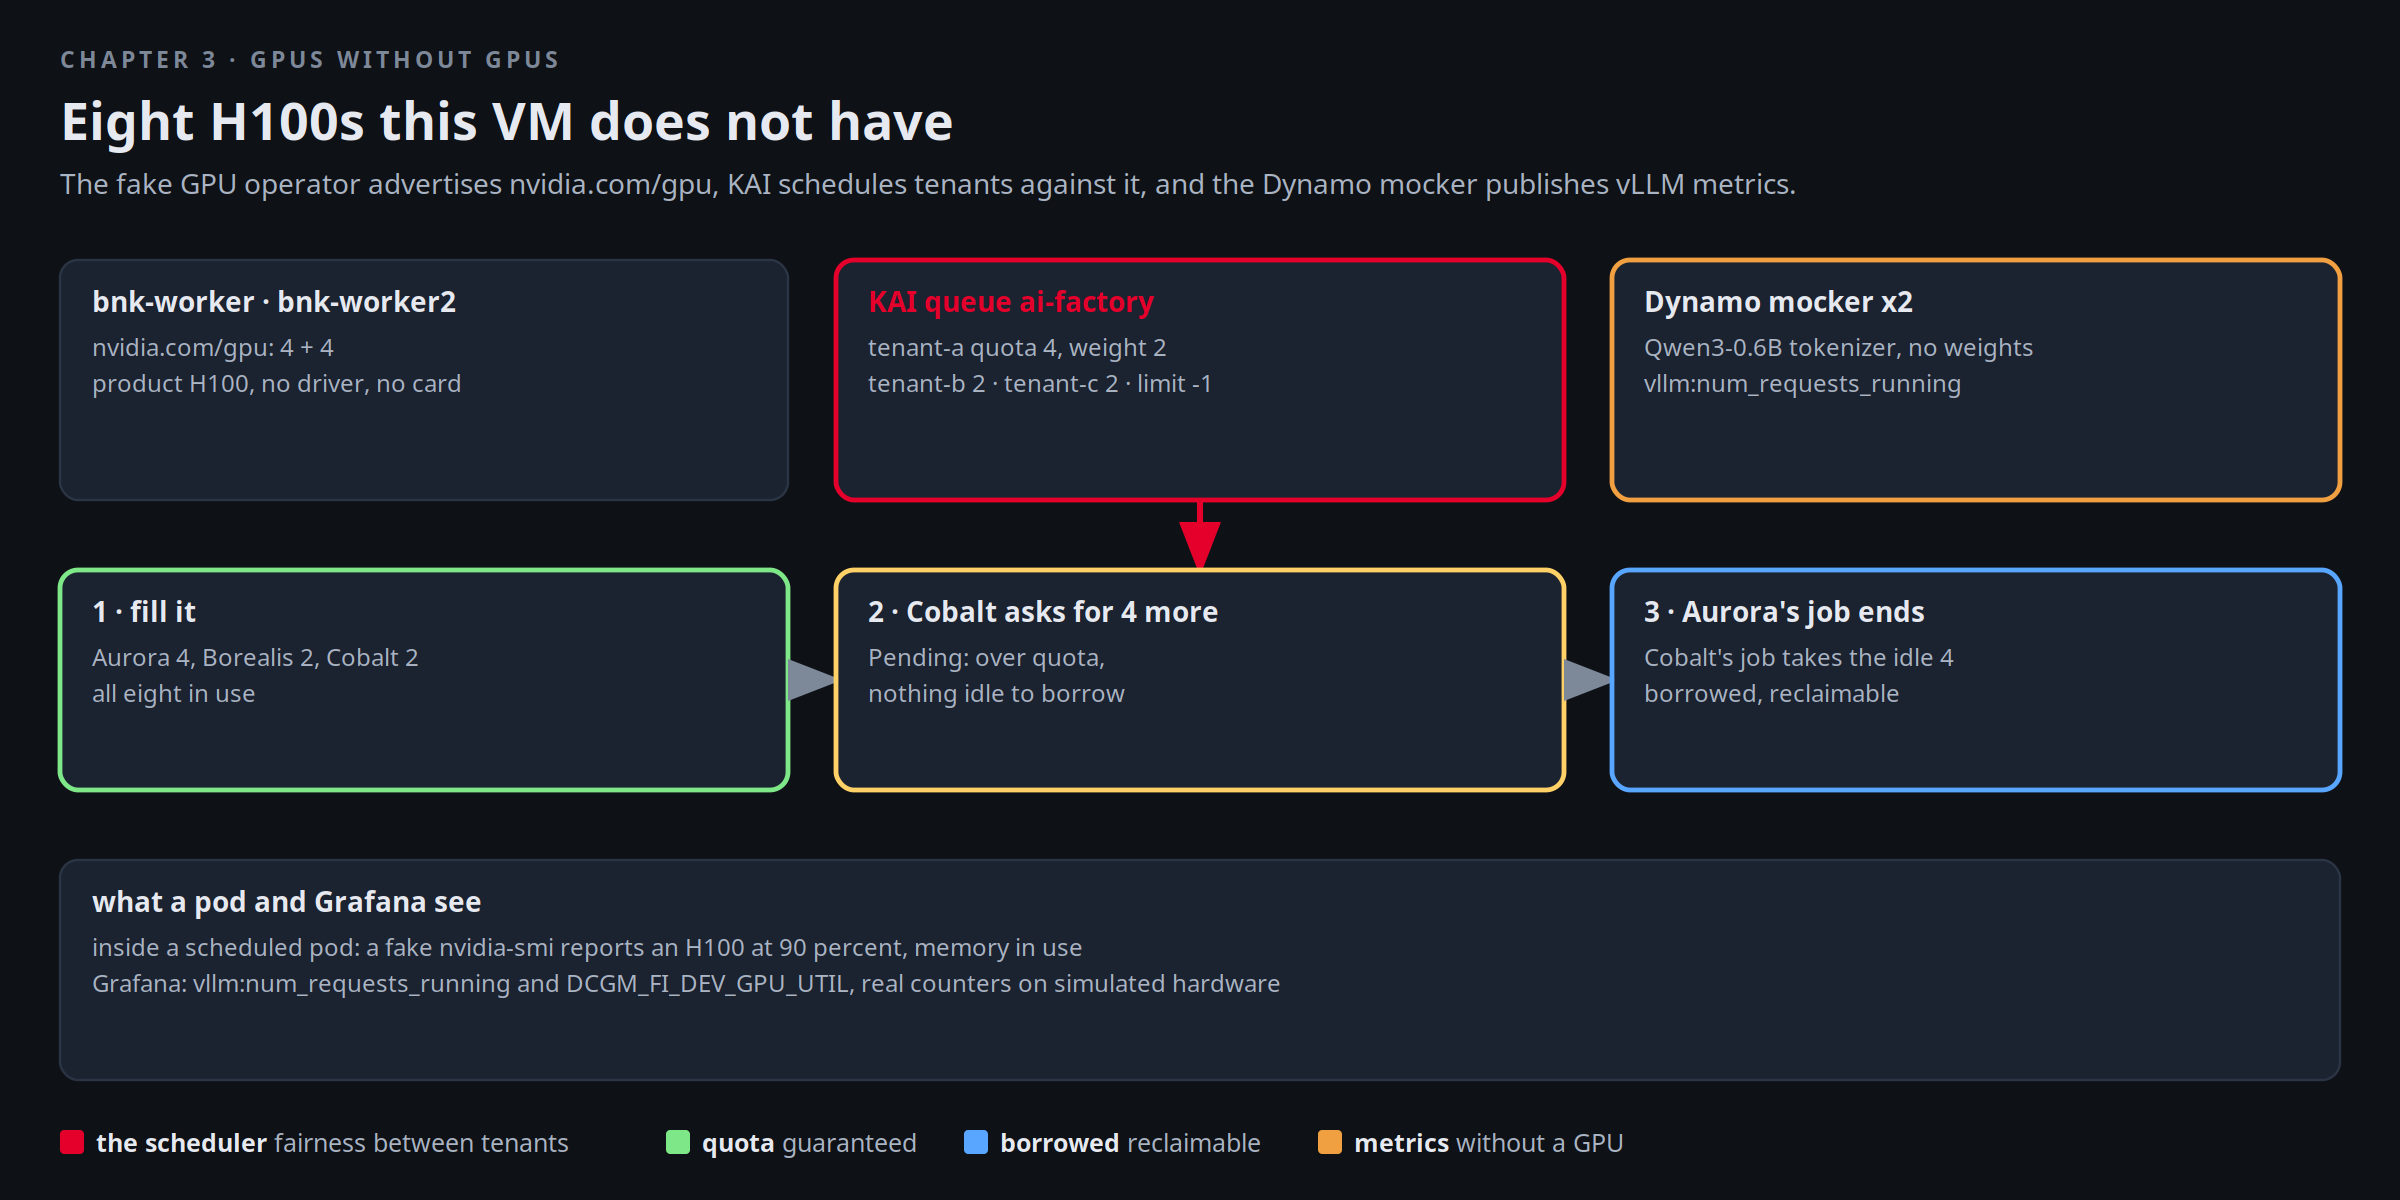
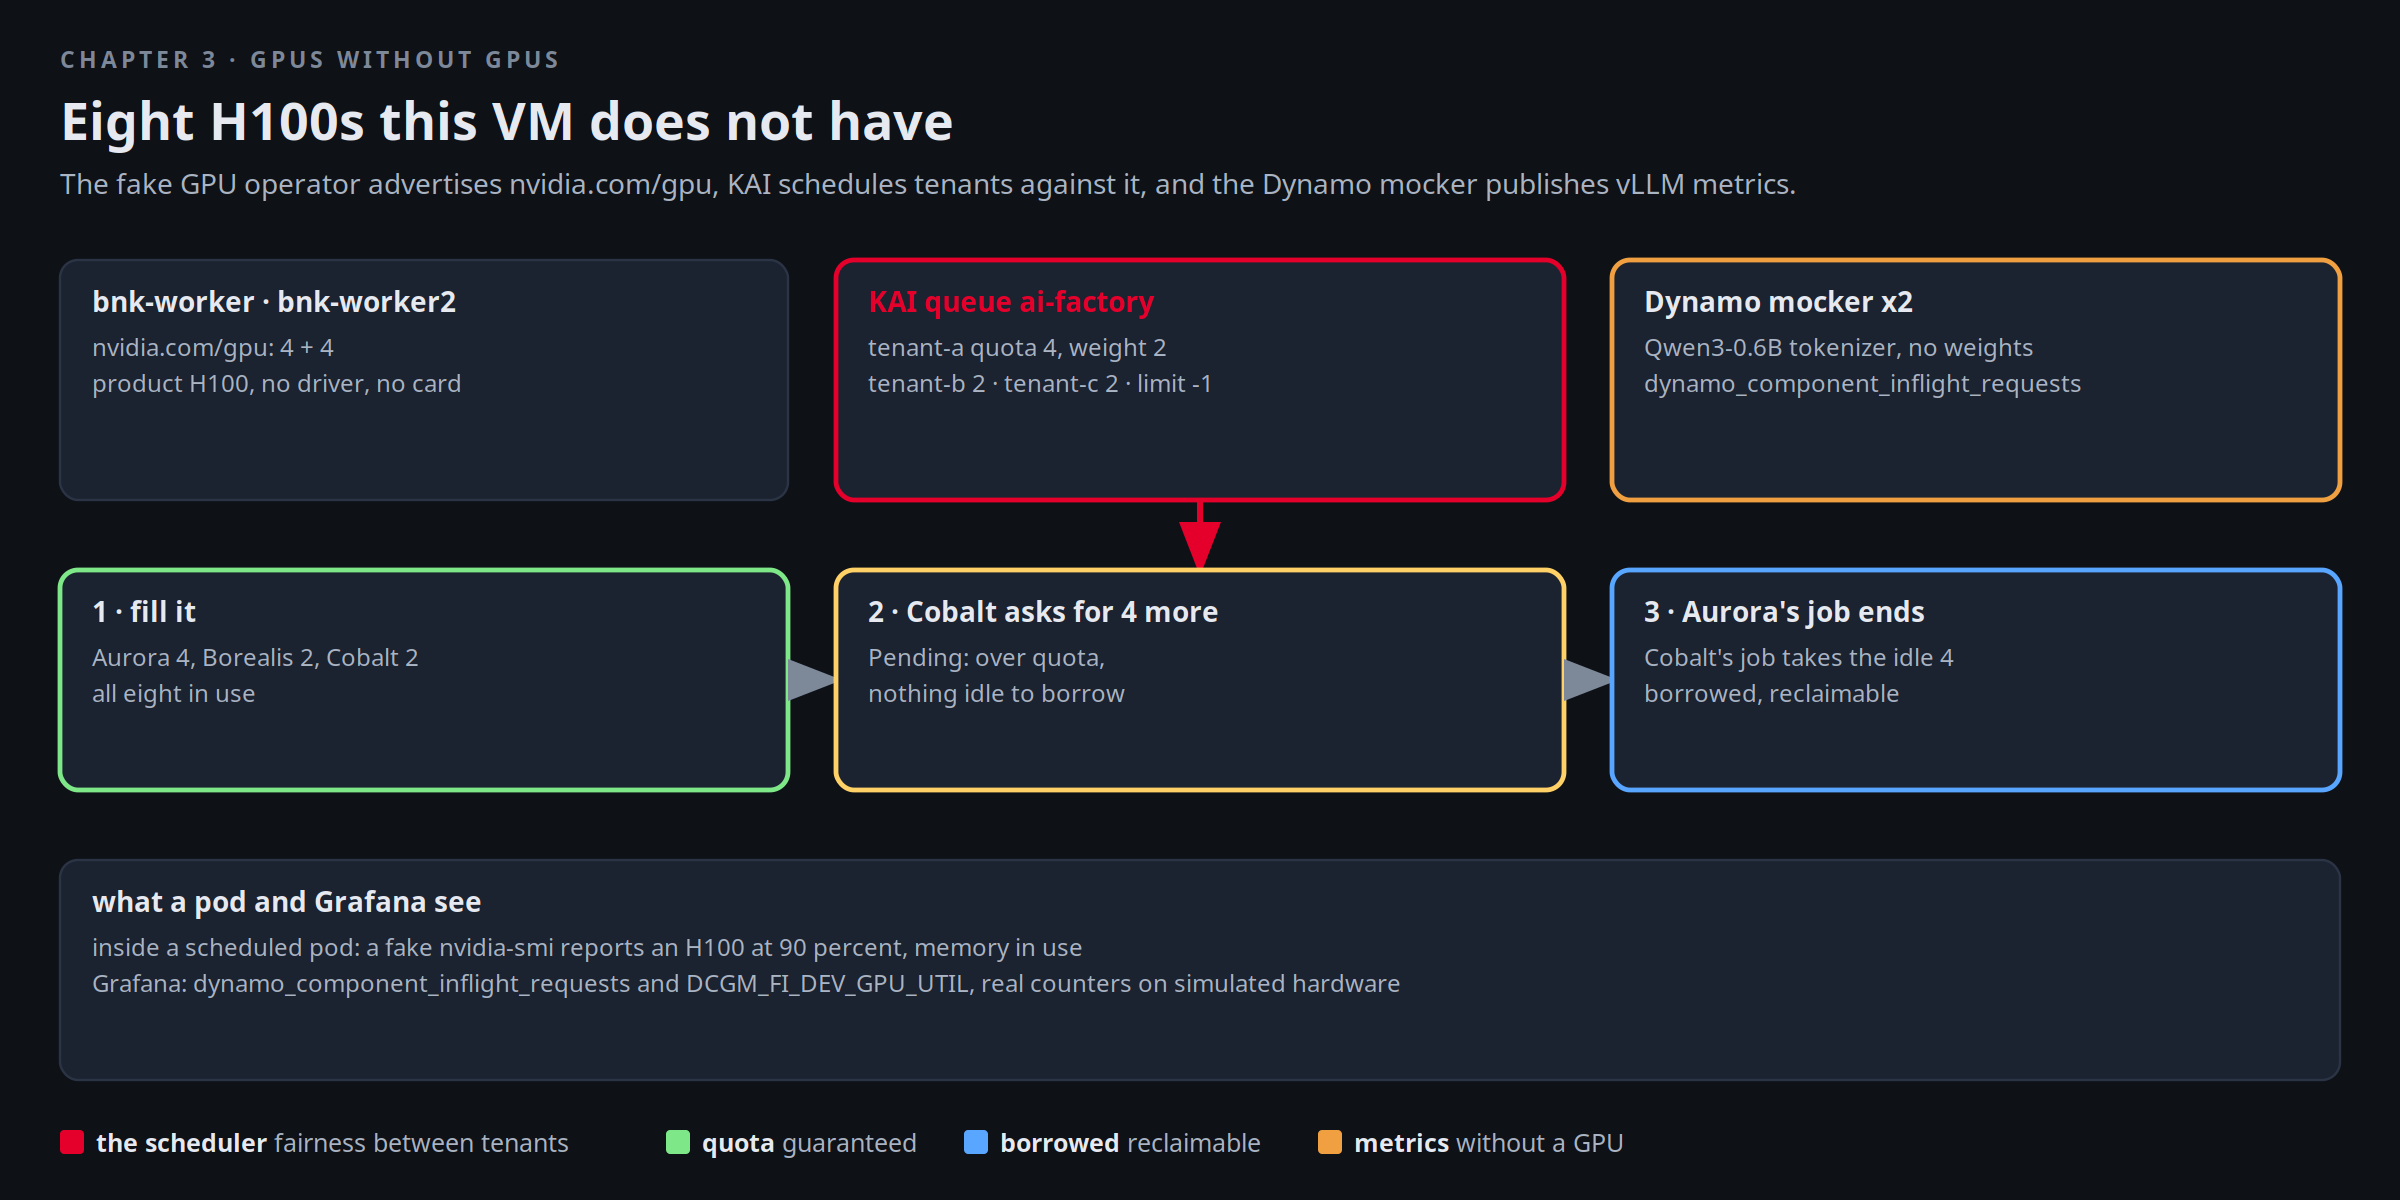
metrics: the mocker publishes dynamo_component_* (scraped), not vllm:*; chapters 3, 4, 13 and the cards query those

Changed region(s): [[0.0625, 0.8017, 0.5938, 0.8325], [0.6875, 0.3083, 0.875, 0.3392]]

diff --git a/instruqt/bnk-ai-factory-clab/assets/scenes.py b/instruqt/bnk-ai-factory-clab/assets/scenes.py
@@ -141,14 +141,14 @@ def c03():
               "The fake GPU operator advertises nvidia.com/gpu, KAI schedules tenants against it, and the Dynamo mocker publishes vLLM metrics.")
     s.row(A, AH, [("bnk-worker · bnk-worker2", ["nvidia.com/gpu: 4 + 4", "product H100, no driver, no card"], {}),
                   ("KAI queue ai-factory", ["tenant-a quota 4, weight 2", "tenant-b 2 · tenant-c 2 · limit -1"], {"hot": True}),
-                  ("Dynamo mocker x2", ["Qwen3-0.6B tokenizer, no weights", "vllm:num_requests_running"], {"color": ORANGE})])
+                  ("Dynamo mocker x2", ["Qwen3-0.6B tokenizer, no weights", "dynamo_component_inflight_requests"], {"color": ORANGE})])
     s.down(600, A + AH, B, RED)
     s.row(B, BH, [("1 · fill it", ["Aurora 4, Borealis 2, Cobalt 2", "all eight in use"], {"color": GREEN}),
                   ("2 · Cobalt asks for 4 more", ["Pending: over quota,", "nothing idle to borrow"], {"color": YELLOW}),
                   ("3 · Aurora's job ends", ["Cobalt's job takes the idle 4", "borrowed, reclaimable"], {"color": BLUE})],
           arrows=[(DIM, ""), (DIM, "")])
     s.strip(C, CH, "what a pod and Grafana see",
-            ["inside a scheduled pod: a fake nvidia-smi reports an H100 at 90 percent, memory in use", "Grafana: vllm:num_requests_running and DCGM_FI_DEV_GPU_UTIL, real counters on simulated hardware"])
+            ["inside a scheduled pod: a fake nvidia-smi reports an H100 at 90 percent, memory in use", "Grafana: dynamo_component_inflight_requests and DCGM_FI_DEV_GPU_UTIL, real counters on simulated hardware"])
     s.legend([(RED, "the scheduler", "fairness between tenants"), (GREEN, "quota", "guaranteed"), (BLUE, "borrowed", "reclaimable"), (ORANGE, "metrics", "without a GPU")])
     s.save("scene-03.png")
 
@@ -162,8 +162,8 @@ def c04():
                   ("NATS", ["KV cache events", "prefix -> worker map"], {})],
           arrows=[(GREEN, "1"), (PURPLE, "2 which one?"), (DIM, "")])
     s.down(432, A + AH, B, GREEN, "3 to the worker the picker named")
-    s.row(B, BH, [("Dynamo mocker-0", ["KV cache: prefixes it has seen", "vllm:num_requests_running"], {"color": ORANGE}),
-                  ("Dynamo mocker-1", ["KV cache: prefixes it has seen", "vllm:num_requests_running"], {"color": ORANGE})], x1=W / 2 + 80)
+    s.row(B, BH, [("Dynamo mocker-0", ["KV cache: prefixes it has seen", "dynamo_component_inflight_requests"], {"color": ORANGE}),
+                  ("Dynamo mocker-1", ["KV cache: prefixes it has seen", "dynamo_component_inflight_requests"], {"color": ORANGE})], x1=W / 2 + 80)
     s.card(W / 2 + 120, B, W - M - W / 2 - 120, BH, "F5EPP spec.mode", ["aggregated: one worker end to end", "disaggregated: prefill + decode", "chapter 14 comes back to this"])
     s.strip(C, CH, "what you watch",
             ["the picker's log names a worker per request · the same prompt twice lands on the same worker", "twelve long prompts in flight push the next short one to the other worker · Prometheus shows the load per pod"])
@@ -309,7 +309,7 @@ def c13():
     s.row(A, AH, [("Polaris · the calls", ["refused with Aurora's key", "passed with Cobalt's key", "management API :18443"], {"color": GREEN}),
                   ("TMM · the verdicts", ["NetPolicy guardrails-tenant-c", "X-Guardrail: blocked", "the egress that was removed"], {"color": RED}),
                   ("OpenShell · the refusals", ["DENIED curl -> .21 (ch 8)", "DENIED curl -> webhook (ch 12)", "per sandbox, with the binary"], {"color": PINK}),
-                  ("Prometheus · the load", ["vllm:num_requests_running", "kai_queue_allocated_gpus", "Grafana for the picture"], {"color": ORANGE})])
+                  ("Prometheus · the load", ["dynamo_component_inflight_requests", "kai_queue_allocated_gpus", "Grafana for the picture"], {"color": ORANGE})])
     for x in (166, 455, 744, 1033):
         s.down(x, A + AH, B, DIM)
     s.strip(B, 150, "/root/incident-timeline.md · five lines, each with its source",

diff --git a/instruqt/bnk-ai-factory-clab/03-gpus-without-gpus/assignment.md b/instruqt/bnk-ai-factory-clab/03-gpus-without-gpus/assignment.md
@@ -4,8 +4,8 @@ id: 8dv8o9oetqmn
 type: challenge
 title: 3. GPUs without GPUs
 teaser: NVIDIA's own simulators give the cluster eight H100s it does not have and
-  two model workers that behave like vLLM. KAI shares the GPUs between the tenants
-  by quota. Submit work for each tenant and watch who gets what.
+  two model workers that answer like a real engine. KAI shares the GPUs between the
+  tenants by quota. Submit work for each tenant and watch who gets what.
 notes:
 - type: text
   contents: |-
@@ -19,7 +19,7 @@ notes:
       operator would set (`nvidia.com/gpu.product: NVIDIA-H100-80GB-HBM3`), and runs a DCGM exporter with
       plausible metrics
     - the **Dynamo mocker** runs NVIDIA Dynamo's frontend and two decode workers that simulate vLLM: they publish
-      `vllm:*` metrics and KV-cache events to NATS, which is what F5's Endpoint Picker reads in the next chapter
+      `dynamo_component_*` metrics and KV-cache events to NATS, which is what F5's Endpoint Picker reads in the next chapter
 
     Scheduling is the tenant boundary here: the **KAI scheduler** (Run:ai's scheduler, open-sourced by NVIDIA) owns
     the eight GPUs through a parent queue and gives each tenant a quota it is guaranteed, with borrowing allowed
@@ -178,15 +178,15 @@ kubectl -n ${P%/*} logs ${P#*/} | head -2
 ## The model workers and their metrics
 
 The Dynamo mocker is a worker that loads a tokenizer and no weights. It answers with filler text, so token counts
-are real counts on simulated text, and it publishes vLLM's metrics, which Prometheus scrapes:
+are real counts on simulated text, and it publishes Dynamo's component metrics, which Prometheus scrapes:
 
 ```bash,run
 kubectl -n aigw-models get pods -o wide --no-headers | awk '{printf "%-44s %-10s %s\n", $1, $3, $7}'
-curl -s 'http://127.0.0.1:30909/api/v1/query?query=vllm:num_requests_running' | python3 -c 'import json,sys; [print(" ", r["metric"].get("pod","?"), r["value"][1]) for r in json.load(sys.stdin)["data"]["result"]]'
+curl -s 'http://127.0.0.1:30909/api/v1/query?query=dynamo_component_inflight_requests' | python3 -c 'import json,sys; [print(" ", r["metric"].get("pod","?"), r["value"][1]) for r in json.load(sys.stdin)["data"]["result"]]'
 curl -s 'http://127.0.0.1:30909/api/v1/query?query=DCGM_FI_DEV_GPU_UTIL' | python3 -c 'import json,sys; d=json.load(sys.stdin)["data"]["result"]; print("  DCGM series:", len(d))'
 ```
 
-Open the **Grafana** tab (user `admin`, password below), go to Explore, and query `vllm:num_requests_running` and
+Open the **Grafana** tab (user `admin`, password below), go to Explore, and query `dynamo_component_inflight_requests` and
 `DCGM_FI_DEV_GPU_UTIL`. Both exist without a GPU in the VM.
 
 ```bash,run

diff --git a/instruqt/bnk-ai-factory-clab/04-the-picker/assignment.md b/instruqt/bnk-ai-factory-clab/04-the-picker/assignment.md
@@ -15,7 +15,7 @@ notes:
 
     The Gateway API Inference Extension puts an **Endpoint Picker** between the gateway and the model pool. F5's
     picker (`F5EPP`) runs with the engine set to `dynamo`: it subscribes to the workers' KV-cache events on NATS,
-    scrapes their `vllm:*` metrics, and scores every candidate on prefix-cache hits, prefill load, queue depth and
+    scrapes their `dynamo_component_*` metrics, and scores every candidate on prefix-cache hits, prefill load, queue depth and
     KV usage before TMM forwards the request to the chosen worker.
 
     This is the layer the llm-d project calls "topology must reach the router". BNK's picker is cache- and
@@ -131,7 +131,7 @@ This is the answer to Aurora's engineer. The gateway did not hash on a header or
 ## Load-aware
 
 Cache is one signal. Load is the other. Put one worker under load with a burst of long prompts and send a short one
-behind them. Open the **Prometheus** tab and graph `vllm:num_requests_running` while this runs:
+behind them. Open the **Prometheus** tab and graph `dynamo_component_inflight_requests` while this runs:
 
 [button label="Open Prometheus" variant="success"](tab-2)
 
@@ -140,7 +140,7 @@ for i in $(seq 1 12); do ask "Write a 200 word story about a lighthouse keeper, 
 ask "What is the capital of Norway?"
 wait
 kubectl -n aigw-models logs $P --since=1m | grep -iE 'pick|select|endpoint' | tail -4
-curl -s 'http://127.0.0.1:30909/api/v1/query?query=vllm:num_requests_running' | python3 -c 'import json,sys; [print(" ", r["metric"].get("pod","?"), r["value"][1]) for r in json.load(sys.stdin)["data"]["result"]]'
+curl -s 'http://127.0.0.1:30909/api/v1/query?query=dynamo_component_inflight_requests' | python3 -c 'import json,sys; [print(" ", r["metric"].get("pod","?"), r["value"][1]) for r in json.load(sys.stdin)["data"]["result"]]'
 ```
 
 The short question went to the less loaded worker even though neither had its prefix. The prefill-load and queue

diff --git a/instruqt/bnk-ai-factory-clab/13-on-the-record/assignment.md b/instruqt/bnk-ai-factory-clab/13-on-the-record/assignment.md
@@ -142,14 +142,14 @@ expressions below over the last few hours. The burst from chapter 4 and the jobs
 [button label="Open Prometheus" variant="success"](tab-5)
 
 ```
-vllm:num_requests_running
+dynamo_component_inflight_requests
 sum by (queue) (kai_queue_allocated_gpus)
 ```
 
 From the terminal, the same numbers now, and the Grafana login for the picture:
 
 ```bash,run
-curl -s 'http://127.0.0.1:30909/api/v1/query?query=vllm:num_requests_running' | python3 -c 'import json,sys; [print(" ", r["metric"].get("pod","?"), r["value"][1]) for r in json.load(sys.stdin)["data"]["result"]]'
+curl -s 'http://127.0.0.1:30909/api/v1/query?query=dynamo_component_inflight_requests' | python3 -c 'import json,sys; [print(" ", r["metric"].get("pod","?"), r["value"][1]) for r in json.load(sys.stdin)["data"]["result"]]'
 curl -s 'http://127.0.0.1:30909/api/v1/query?query=sum(kai_queue_allocated_gpus)by(queue)' | python3 -c 'import json,sys; [print(" ", r["metric"].get("queue","?"), r["value"][1]) for r in json.load(sys.stdin)["data"]["result"]] or print("  (no allocated GPUs right now)")'
 cat /root/.bnk/grafana-admin; echo
 ```
